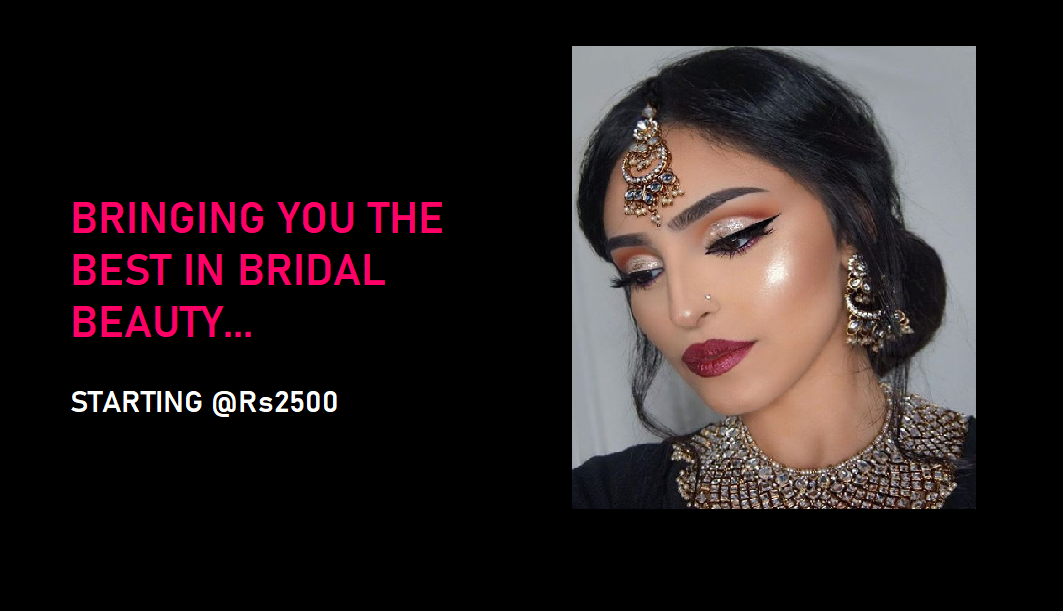
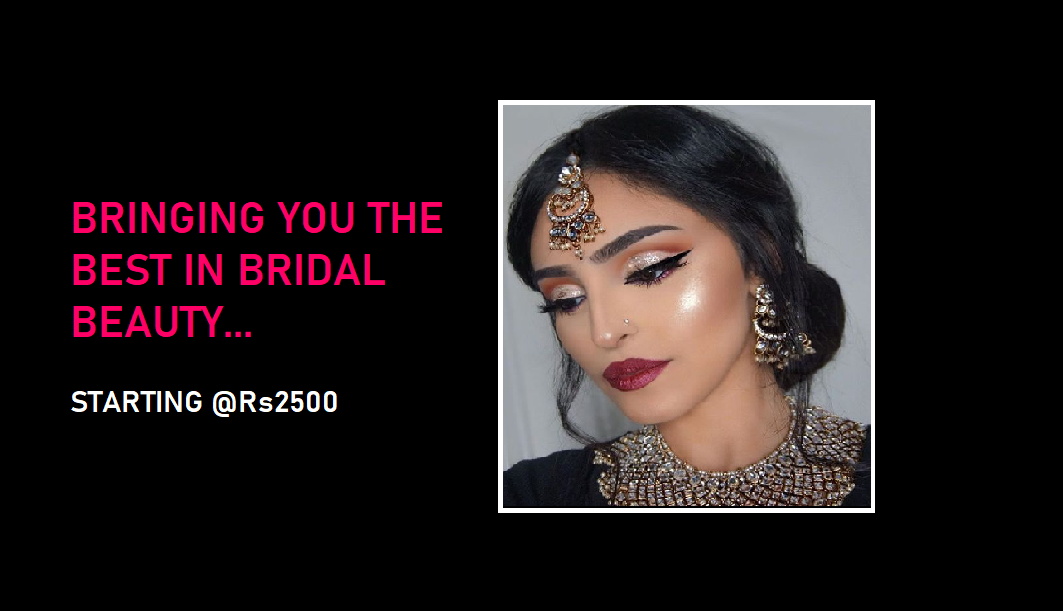
all files committed added indicators

diff --git a/index.html b/index.html
@@ -10,7 +10,7 @@
     <script src="https://kit.fontawesome.com/1992ae96f0.js" crossorigin="anonymous"></script>
     <link rel="preconnect" href="https://fonts.gstatic.com">
     <link href="https://fonts.googleapis.com/css2?family=Lato:ital@1&family=Montaga&family=Roboto:wght@500&display=swap" rel="stylesheet">
-    <title>BeautyTrenz2</title>
+    <title>BeautyTrenz</title>
     <link rel="icon" href="images/logo1.png" type="image/icon">
 </head>
 <body>
@@ -46,25 +46,28 @@
 
     <div id="coverimage">
       <!---<img src="images/coverpar.png">-->
-      <div id="carouselExampleSlidesOnly" class="carousel slide" data-bs-ride="carousel">
-        <div class="carousel-inner">
+    <div id="carouselExampleSlidesOnly " class="carousel slide" data-bs-ride="carousel" data-interval="1200">
+        <ol class="carousel-indicators">
+          <li data-target="#carouselExampleIndicators" data-slide-to="0" class="active"></li>
+          <li data-target="#carouselExampleIndicators" data-slide-to="1"></li>
+          <li data-target="#carouselExampleIndicators" data-slide-to="2"></li>
+        </ol> 
+      <div class="carousel-inner">
           <div class="carousel-item active">
-            <img src="images/coverparlour1.png"  class="d-block w-100" alt="...">
+            <img src="images/coverparlour1.png"  class="d-block w-100" alt="First slide">
             
           </div>
           <div class="carousel-item">
-            <img src="images/coverparlour.png" class="d-block w-100" alt="...">
+            <img src="images/coverparlour.png" class="d-block w-100" alt="second slide">
           </div>
           <div class="carousel-item">
-            <img src="images/coverparlour2.png" class="d-block w-100" alt="...">
+            <img src="images/coverparlour2.png" class="d-block w-100" alt="third slide">
           </div>
-          <div class="carousel-item">
-            <img src="images/coverparlour3.png" class="d-block w-100" alt="...">
-          </div>
+         
           
         </div>
       </div>
-    </div>
+  </div>
       
        
 

diff --git a/style.css b/style.css
@@ -121,6 +121,12 @@ box-shadow: 0 10px 20px rgba(16, 1, 20, 0.12), 0 4px 8px rgba(130, 55, 151, 0.12
      
       
   }
+  
+  .carousel-indicators .active {
+    background-color: #de1f82!important;
+    
+  }
+
 
 
 
